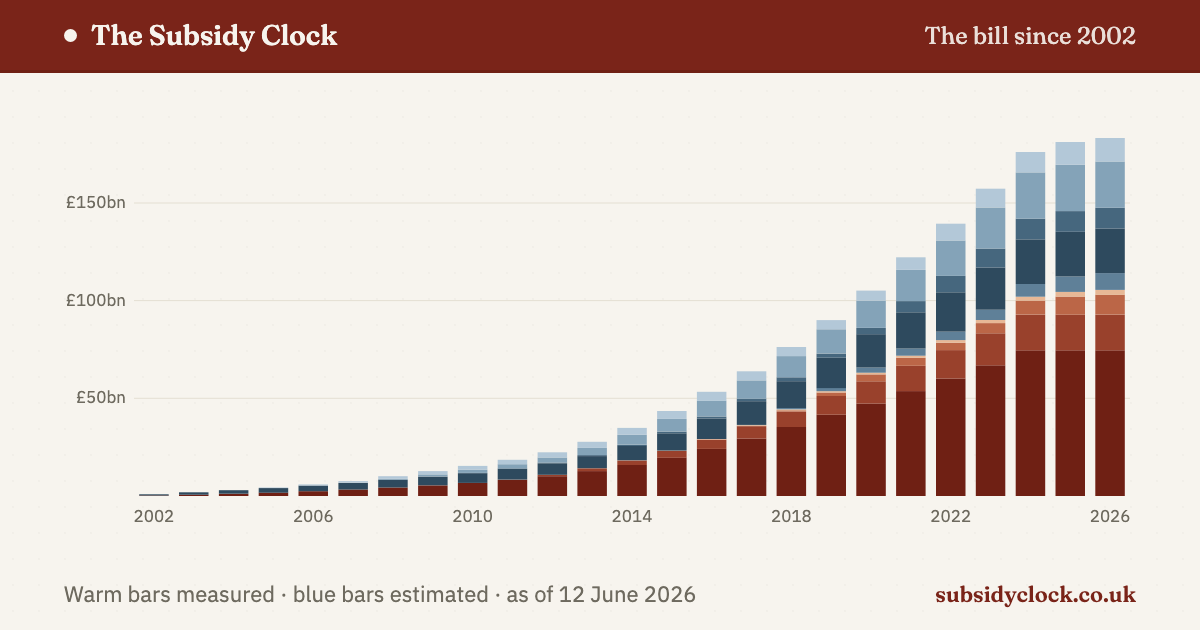
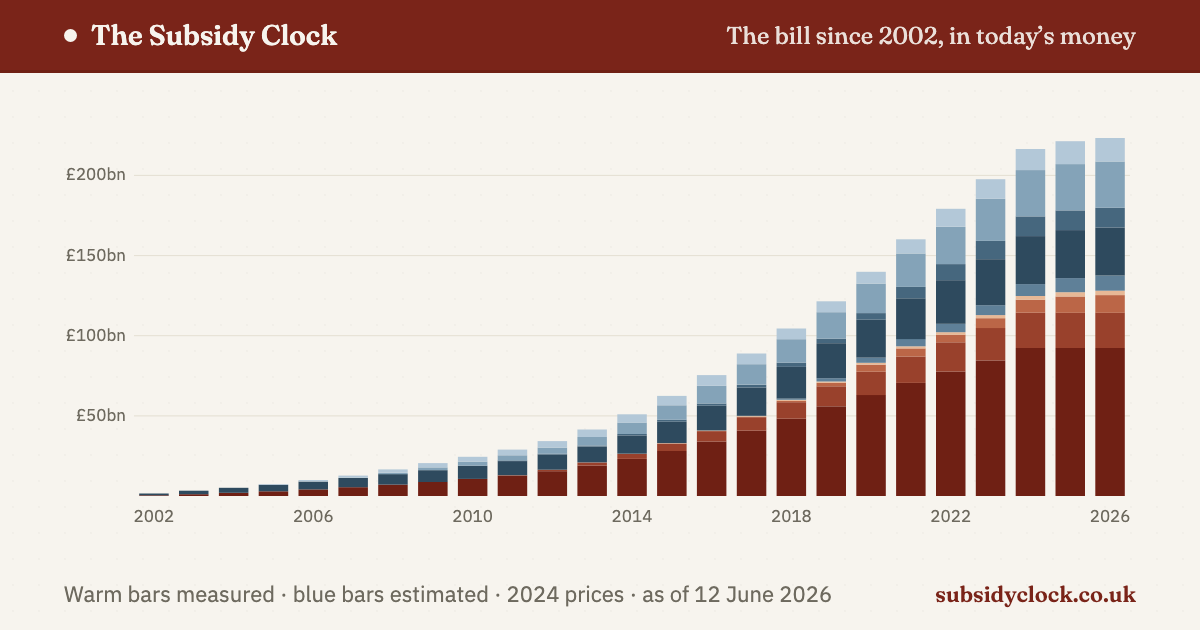
feat: regenerate the-bill share card and stub on the real-2024 basis

diff --git a/site/s/the-bill.html b/site/s/the-bill.html
@@ -3,9 +3,9 @@
 <head>
 <meta charset="utf-8">
 <meta name="robots" content="noindex">
-<title>£183,253,281,667 the cumulative cost of direct and estimated indirect subsidy to renewables since 2002 — The Subsidy Clock</title>
+<title>£223,352,703,328 the cumulative cost of direct and estimated indirect subsidy to renewables since 2002, in today’s money (2024 prices) — The Subsidy Clock</title>
 <meta name="description" content="As of 12 June 2026. Every figure traces to an official source.">
-<meta property="og:title" content="£183,253,281,667 the cumulative cost of direct and estimated indirect subsidy to renewables since 2002">
+<meta property="og:title" content="£223,352,703,328 the cumulative cost of direct and estimated indirect subsidy to renewables since 2002, in today’s money (2024 prices)">
 <meta property="og:description" content="As of 12 June 2026. Every figure traces to an official source.">
 <meta property="og:type" content="website">
 <meta property="og:site_name" content="The Subsidy Clock">
@@ -18,7 +18,7 @@
 <meta http-equiv="refresh" content="0;url=https://subsidyclock.co.uk/#cost-per-year">
 </head>
 <body>
-<p>£183,253,281,667 the cumulative cost of direct and estimated indirect subsidy to renewables since 2002 (as of 12 June 2026) — <a href="https://subsidyclock.co.uk/#cost-per-year">The Subsidy Clock</a>.</p>
+<p>£223,352,703,328 the cumulative cost of direct and estimated indirect subsidy to renewables since 2002, in today’s money (2024 prices) (as of 12 June 2026) — <a href="https://subsidyclock.co.uk/#cost-per-year">The Subsidy Clock</a>.</p>
 <script>location.replace("https://subsidyclock.co.uk/#cost-per-year");</script>
 </body>
 </html>